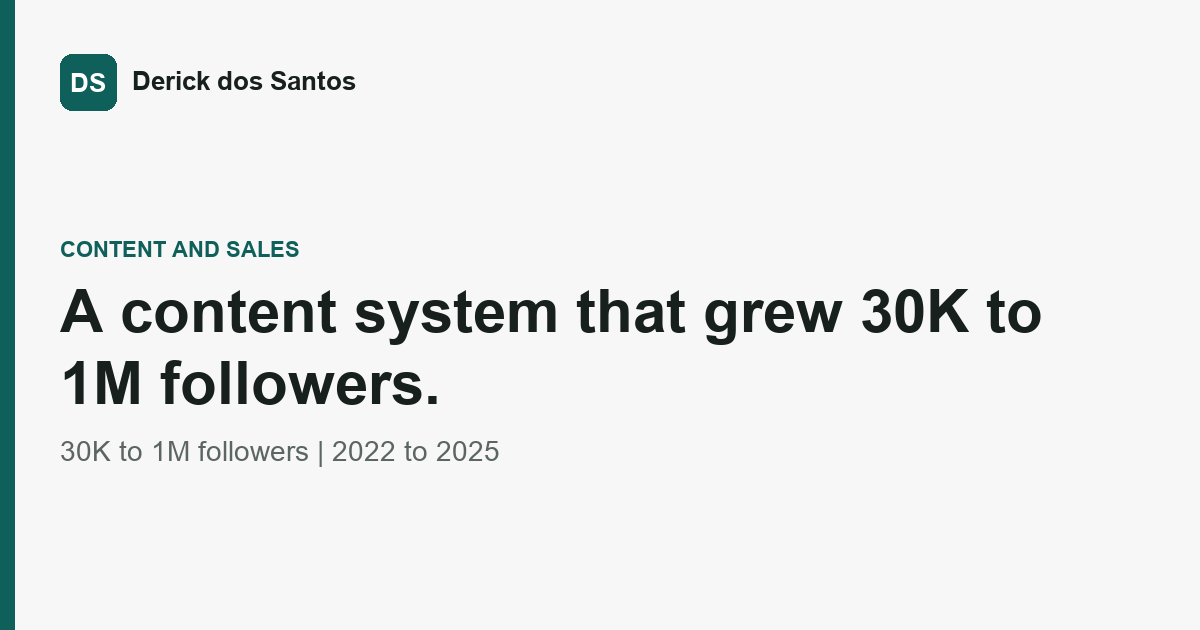
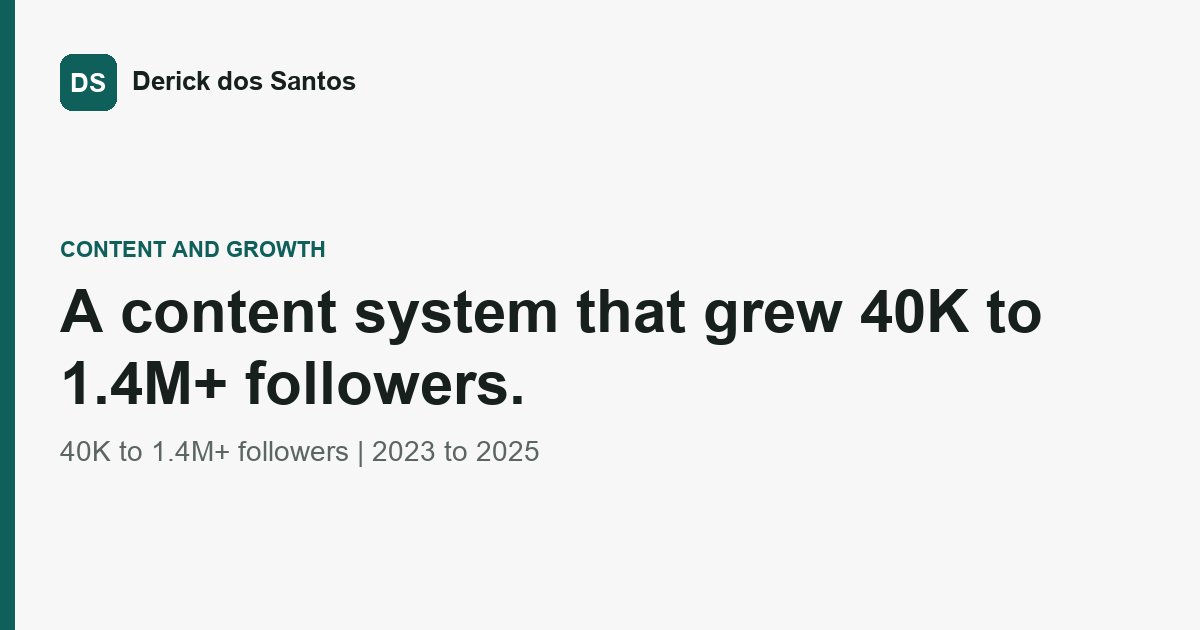
Lock corrected facts: Eduardo Oct 2023 to 2025 progression, 40K to 1.4M+ followers, Ana Silva ROAS 11 on

diff --git a/work/eduardo-araujo.html b/work/eduardo-araujo.html
@@ -1,7 +1,7 @@
 <!doctype html><html lang="en"><head><meta charset="utf-8"><meta name="viewport" content="width=device-width,initial-scale=1,viewport-fit=cover">
-<title>Eduardo Araujo | Growth and Sales Case Study</title><meta name="description" content="I managed growth, sales and content for The 1% Academy. The audience grew from 30K to 1M followers between 2022 and 2025."><link rel="canonical" href="https://md-mkt.github.io/work/eduardo-araujo.html">
-<meta property="og:type" content="website"><meta property="og:title" content="Eduardo Araujo | Growth and Sales Case Study"><meta property="og:description" content="I managed growth, sales and content for The 1% Academy. The audience grew from 30K to 1M followers between 2022 and 2025."><meta property="og:url" content="https://md-mkt.github.io/work/eduardo-araujo.html"><meta property="og:image" content="https://md-mkt.github.io/og/work-eduardo-araujo.png"><meta property="og:image:width" content="1200"><meta property="og:image:height" content="630">
-<meta name="twitter:card" content="summary_large_image"><meta name="twitter:title" content="Eduardo Araujo | Growth and Sales Case Study"><meta name="twitter:description" content="I managed growth, sales and content for The 1% Academy. The audience grew from 30K to 1M followers between 2022 and 2025."><meta name="twitter:image" content="https://md-mkt.github.io/og/work-eduardo-araujo.png">
+<title>Eduardo Araujo | Content and Growth Case Study</title><meta name="description" content="From video editor to Head of Content and Marketing Manager at The 1% Academy. The main profile grew from about 40K to 1.4M+ followers, 2023 to 2025."><link rel="canonical" href="https://md-mkt.github.io/work/eduardo-araujo.html">
+<meta property="og:type" content="website"><meta property="og:title" content="Eduardo Araujo | Content and Growth Case Study"><meta property="og:description" content="From video editor to Head of Content and Marketing Manager at The 1% Academy. The main profile grew from about 40K to 1.4M+ followers, 2023 to 2025."><meta property="og:url" content="https://md-mkt.github.io/work/eduardo-araujo.html"><meta property="og:image" content="https://md-mkt.github.io/og/work-eduardo-araujo.png"><meta property="og:image:width" content="1200"><meta property="og:image:height" content="630">
+<meta name="twitter:card" content="summary_large_image"><meta name="twitter:title" content="Eduardo Araujo | Content and Growth Case Study"><meta name="twitter:description" content="From video editor to Head of Content and Marketing Manager at The 1% Academy. The main profile grew from about 40K to 1.4M+ followers, 2023 to 2025."><meta name="twitter:image" content="https://md-mkt.github.io/og/work-eduardo-araujo.png">
 <link rel="icon" href="/favicon.ico" sizes="32x32"><link rel="icon" href="/icon.svg" type="image/svg+xml"><link rel="apple-touch-icon" href="/apple-touch-icon.png">
 <link rel="preconnect" href="https://fonts.googleapis.com"><link rel="preconnect" href="https://fonts.gstatic.com" crossorigin><link rel="stylesheet" href="https://fonts.googleapis.com/css2?family=Inter:wght@400;500;600;700&family=Space+Grotesk:wght@600;700&display=swap">
 <style>
@@ -74,13 +74,13 @@ footer{padding-block:36px 48px;border-top:1px solid var(--rule);font-size:.95rem
 <header class="top"><div class="wrap nav"><a class="brand" href="/"><span class="mono" aria-hidden="true">DS</span><span>Derick dos Santos</span></a>
 <button class="menu-btn btn" aria-expanded="false" aria-controls="nav-links">Menu</button>
 <nav class="links" id="nav-links" aria-label="Main"><a href="/work.html">Work</a><a href="/services.html">Services</a><a href="/resume.html">Resume</a><a href="/contact.html">Contact</a><a class="btn primary" href="https://wa.me/610490215396?text=Hi%20Derick%2C%20I%20found%20your%20site%20and%20would%20like%20to%20talk%20about%20a%20project." target="_blank" rel="noopener">Message me on WhatsApp</a></nav></div></header><main id="main"><div class="wrap cs-head"><a class="back" href="/work.html">All case studies</a><p class="eyebrow">Growth and sales system | Content | Funnels</p><h1>Eduardo Araujo | The 1% Academy</h1>
-<div class="meta"><span><b>Platform:</b> Instagram content system, sales page, organic sales process, quiz funnel plus VSL</span><span><b>Goal:</b> Turn a mentor&#x27;s visibility into predictable, scalable sales</span><span><b>When:</b> 2021 to 2025</span></div></div>
+<div class="meta"><span><b>Platform:</b> Instagram content system, sales page, organic sales process, quiz funnel plus VSL</span><span><b>Goal:</b> Turn a mentor&#x27;s visibility into predictable, scalable sales</span><span><b>When:</b> Oct 2023 to 2025</span></div></div>
 <div class="wrap"><div class="cs-hero"><img src="/img/hero-eduardo-araujo.webp" width="1279" height="1920" alt="Eduardo Araujo, business mentor, on stage" fetchpriority="high"></div></div>
-<section class="cs-body"><div class="wrap"><p class="eyebrow">The big idea</p><p class="lead">For four years I was the right hand of business mentor Eduardo Araujo, running growth, sales and the day-to-day operation of The 1% Academy.</p>
+<section class="cs-body"><div class="wrap"><p class="eyebrow">The big idea</p><p class="lead">For two years I was inside business mentor Eduardo Araujo&#x27;s The 1% Academy, from Senior Video Editor to Head of Content and Marketing Manager, running content, launches and marketing operations as his right hand.</p>
 <h2 style="margin-top:28px">The real problem</h2><p>Eduardo had a clear message, but his content and sales process were not working together. Visibility came and went, and it did not reliably turn into students. There was no system behind the content and no structured path from a video to a sale.</p>
-<div class="table-scroll"><table class="ba"><thead><tr><th>Area</th><th>Before</th><th>After</th></tr></thead><tbody><tr><td>Audience</td><td>30K followers</td><td>1M followers (2022 to 2025)</td></tr><tr><td>Sales</td><td>Launch by launch, no process</td><td>Organic sales process that produced R$500K+ with no paid ads</td></tr><tr><td>Funnels</td><td>None</td><td>Quiz funnel plus VSL: $50K+ in three months at 1.8 ROAS, excluding upsells</td></tr><tr><td>Business</td><td>Dependent on the founder&#x27;s energy</td><td>R$6M+ billed from 2023 to early 2026 with a growth and sales system behind it</td></tr></tbody></table></div>
-<h2>What I built</h2><p>I built the content system and the storytelling formats that grew his audience from 30K to 1M followers, including multiple viral videos with millions of views. The formats were designed around his personality, audience psychology and platform behavior, not around trends.</p><p>I built the sales page and the organic sales process that turned that attention into R$500K+ in revenue without paid traffic. Later I launched a quiz funnel plus VSL that generated $50K+ in three months at 1.8 ROAS, excluding upsells.</p><p>I managed launches, planned the content calendar, built sales funnels and tracked performance. The business billed R$6M+ from 2023 to early 2026 while I ran its growth and sales system. Eduardo is now a client of OASIS.</p><ul class="gallery wide" style="margin-top:24px"><li><figure><img src="/img/cs-eduardo-araujo-0.webp" width="1200" height="658" alt="Eduardo Araujo brand photography" loading="lazy" decoding="async"><figcaption>Eduardo Araujo brand photography</figcaption></figure></li><li><figure><img src="/img/cs-eduardo-araujo-1.webp" width="1200" height="482" alt="Content and sales results" loading="lazy" decoding="async"><figcaption>Content and sales results</figcaption></figure></li><li><figure><img src="/img/cs-eduardo-araujo-2.webp" width="1082" height="1134" alt="Eduardo Araujo content" loading="lazy" decoding="async"><figcaption>Eduardo Araujo content</figcaption></figure></li><li><figure><img src="/img/cs-eduardo-araujo-3.webp" width="1200" height="769" alt="The 1% Academy sales page" loading="lazy" decoding="async"><figcaption>The 1% Academy sales page</figcaption></figure></li></ul>
-<h2 style="margin-top:36px">The result</h2><ul class="results"><li><b>30K to 1M</b><span>followers, 2022 to 2025</span></li><li><b>R$500K+</b><span>organic revenue, no paid ads</span></li><li><b>$50K+</b><span>from a quiz funnel plus VSL in three months, 1.8 ROAS excluding upsells</span></li><li><b>R$6M+</b><span>billed by the business, 2023 to early 2026</span></li></ul>
+<div class="table-scroll"><table class="ba"><thead><tr><th>Area</th><th>Before</th><th>After</th></tr></thead><tbody><tr><td>Audience</td><td>About 40K followers</td><td>1.4M+ followers (2023 to 2025)</td></tr><tr><td>Sales</td><td>Launch by launch, no process</td><td>Organic sales process that produced R$500K+ with no paid ads</td></tr><tr><td>Funnels</td><td>None</td><td>Quiz funnel plus VSL: $50K+ in three months at 1.8 ROAS, excluding upsells</td></tr><tr><td>Business</td><td>Dependent on the founder&#x27;s energy</td><td>R$6M+ billed from 2023 to early 2026, with content and marketing operations led by me from Jul 2024</td></tr></tbody></table></div>
+<h2>What I built</h2><p>I joined in October 2023 as Senior Video Editor, took over social media in February 2024 and became Head of Content and Marketing Manager in July 2024. I played a key role in growing the main profile from about 40K to 1.4M+ followers, with multiple viral videos reaching millions of views and performance creatives with cost per click as low as R$0.08.</p><p>I built the sales page and the organic sales process that turned that attention into R$500K+ in revenue without paid traffic. I also launched a quiz funnel plus VSL that generated $50K+ in three months at 1.8 ROAS, excluding upsells.</p><p>From July 2024 I managed launches, the content calendar, the content team and editors, sales funnels and reporting. The business billed R$6M+ from 2023 to early 2026. Eduardo is now a client of OASIS.</p><ul class="gallery wide" style="margin-top:24px"><li><figure><img src="/img/cs-eduardo-araujo-0.webp" width="1200" height="658" alt="Eduardo Araujo brand photography" loading="lazy" decoding="async"><figcaption>Eduardo Araujo brand photography</figcaption></figure></li><li><figure><img src="/img/cs-eduardo-araujo-1.webp" width="1200" height="482" alt="Content and sales results" loading="lazy" decoding="async"><figcaption>Content and sales results</figcaption></figure></li><li><figure><img src="/img/cs-eduardo-araujo-2.webp" width="1082" height="1134" alt="Eduardo Araujo content" loading="lazy" decoding="async"><figcaption>Eduardo Araujo content</figcaption></figure></li><li><figure><img src="/img/cs-eduardo-araujo-3.webp" width="1200" height="769" alt="The 1% Academy sales page" loading="lazy" decoding="async"><figcaption>The 1% Academy sales page</figcaption></figure></li></ul>
+<h2 style="margin-top:36px">The result</h2><ul class="results"><li><b>40K to 1.4M+</b><span>followers, 2023 to 2025</span></li><li><b>R$500K+</b><span>organic revenue, no paid ads</span></li><li><b>$50K+</b><span>from a quiz funnel plus VSL in three months, 1.8 ROAS excluding upsells</span></li><li><b>R$0.08</b><span>cost per click on the best performing creatives</span></li><li><b>R$6M+</b><span>billed by the business, 2023 to early 2026</span></li></ul>
 <h2 style="margin-top:36px">What this proves for you</h2><p>If you are a creator or expert whose audience is bigger than your revenue, I have already built the whole path once: content that earns attention, a sales process that converts it, and funnels that scale it.</p>
 <h2 style="margin-top:28px">Proof links</h2><ul><li><a href="https://oasis-brand-essence.lovable.app/case-study/eduardo-araujo" target="_blank" rel="noopener">Case study on the OASIS site</a></li></ul>
 <h2 style="margin-top:36px">Next steps</h2><div class="next"><a class="card" href="/services.html#growth-system" style="text-decoration:none;color:inherit;padding:18px"><span class="tag">Related service</span><h3 style="margin:6px 0 0">Growth system</h3></a><a class="card" href="/work/smash-padel-usa.html" style="text-decoration:none;color:inherit;padding:18px"><span class="tag">Case study</span><h3 style="margin:6px 0 0">Smash Padel USA</h3></a><a class="card" href="/work/luciane-mazuim.html" style="text-decoration:none;color:inherit;padding:18px"><span class="tag">Case study</span><h3 style="margin:6px 0 0">Luciane Mazuim</h3></a></div>

diff --git a/index.html b/index.html
@@ -77,7 +77,7 @@ footer{padding-block:36px 48px;border-top:1px solid var(--rule);font-size:.95rem
 <p class="lead">I build and run acquisition systems for creators, small businesses and startups: Meta and Google Ads, landing pages, tracking and automated follow-up, measured end to end. Co-founder of OASIS Creative Co, based in Brazil, working US hours.</p>
 <div class="cta-row"><a class="btn primary" href="https://wa.me/610490215396?text=Hi%20Derick%2C%20I%20found%20your%20site%20and%20would%20like%20to%20talk%20about%20a%20project." target="_blank" rel="noopener">Message me on WhatsApp</a><a class="btn" href="/work.html">See the work</a></div></div>
 <div class="photo"><img src="/img/derick.webp" width="900" height="1125" alt="Derick dos Santos" fetchpriority="high"></div></div></div>
-<section><div class="wrap"><p class="eyebrow">Selected results</p><ul class="stats"><li><a href="/work/smash-padel-usa.html"><b>3.68x</b><span>ROAS on a validated Google Search test</span></a></li><li><a href="/work/eduardo-araujo.html"><b>R$6M+</b><span>billed by a business while I ran its growth and sales</span></a></li><li><a href="/work/ana-silva.html"><b>ROAS 11</b><span>on Google Ads for a solo service business</span></a></li><li><a href="/work/eduardo-araujo.html"><b>30K to 1M</b><span>followers built with a content system</span></a></li></ul></div></section>
+<section><div class="wrap"><p class="eyebrow">Selected results</p><ul class="stats"><li><a href="/work/smash-padel-usa.html"><b>3.68x</b><span>ROAS on a validated Google Search test</span></a></li><li><a href="/work/eduardo-araujo.html"><b>R$6M+</b><span>billed by a business where I led content and marketing operations</span></a></li><li><a href="/work/ana-silva.html"><b>ROAS 11</b><span>on Google Ads for a solo service business</span></a></li><li><a href="/work/eduardo-araujo.html"><b>40K to 1.4M+</b><span>followers, a content system I helped build</span></a></li></ul></div></section>
 <section class="alt" id="help"><div class="wrap"><p class="eyebrow">What I can help with</p><h2>I can manage your marketing or help with the part that needs work.</h2>
 <div class="svcs">
 <div class="svc"><h3>Growth system</h3><p class="note">Paid acquisition, landing page, tracking and lifecycle follow-up built as one measurable journey.</p><ul><li>Meta and Google Ads</li><li>Landing pages and CRO</li><li>UTM tracking and attribution</li><li>Email and CRM automation</li></ul><div class="actions"><a class="btn" href="/services.html#growth-system">How it works</a><a class="btn" href="/work/smash-padel-usa.html">Proof: Smash Padel</a></div></div>
@@ -87,7 +87,7 @@ footer{padding-block:36px 48px;border-top:1px solid var(--rule);font-size:.95rem
 <section id="work"><div class="wrap"><h2>Case studies</h2><ul class="cards"><li class="card"><a class="thumb" href="/work/smash-padel-usa.html" aria-label="Smash Padel USA"><img src="/img/cover-smash-padel-usa.webp" width="900" height="720" alt="Players on court at Smash Padel USA in Boulder, Colorado" loading="lazy" decoding="async"></a>
 <div class="body"><span class="tag">Growth system | Paid media | CRO | Lifecycle</span><h3><a href="/work/smash-padel-usa.html" style="text-decoration:none;color:inherit">Smash Padel USA</a></h3><p><b>3.68x</b> direct ROAS on a validated Google Search test</p>
 <div class="actions"><a class="btn" href="/work/smash-padel-usa.html">Read the case study</a></div></div></li><li class="card"><a class="thumb" href="/work/eduardo-araujo.html" aria-label="Eduardo Araujo | The 1% Academy"><img src="/img/cover-eduardo-araujo.webp" width="900" height="1351" alt="Eduardo Araujo, business mentor, on stage" loading="lazy" decoding="async"></a>
-<div class="body"><span class="tag">Growth and sales system | Content | Funnels</span><h3><a href="/work/eduardo-araujo.html" style="text-decoration:none;color:inherit">Eduardo Araujo | The 1% Academy</a></h3><p><b>30K to 1M</b> followers, 2022 to 2025</p>
+<div class="body"><span class="tag">Growth and sales system | Content | Funnels</span><h3><a href="/work/eduardo-araujo.html" style="text-decoration:none;color:inherit">Eduardo Araujo | The 1% Academy</a></h3><p><b>40K to 1.4M+</b> followers, 2023 to 2025</p>
 <div class="actions"><a class="btn" href="/work/eduardo-araujo.html">Read the case study</a></div></div></li><li class="card"><a class="thumb" href="/work/ana-silva.html" aria-label="Personal Stylist Ana Silva"><img src="/img/cover-ana-silva.webp" width="900" height="1125" alt="Personal stylist Ana Silva" loading="lazy" decoding="async"></a>
 <div class="body"><span class="tag">Google Ads | Brand manual | Content strategy</span><h3><a href="/work/ana-silva.html" style="text-decoration:none;color:inherit">Personal Stylist Ana Silva</a></h3><p><b>ROAS 11</b> on Google Ads</p>
 <div class="actions"><a class="btn" href="/work/ana-silva.html">Read the case study</a></div></div></li><li class="card"><a class="thumb" href="/work/pick-n-eat.html" aria-label="Pick n Eat Acai and Cafe"><img src="/img/cover-pick-n-eat.webp" width="868" height="1102" alt="Pick n Eat acai bowls" loading="lazy" decoding="async"></a>
@@ -102,8 +102,8 @@ footer{padding-block:36px 48px;border-top:1px solid var(--rule);font-size:.95rem
 <li><h3>Convert</h3><p>Landing pages, quiz funnels, VSLs and offers turn traffic into leads and bookings.</p></li>
 <li><h3>Nurture</h3><p>Email, SMS and CRM flows convert more of the leads you already paid for.</p></li>
 <li><h3>Optimize</h3><p>Tracking, cohorts and tests find the next bottleneck, and the loop starts again.</p></li></ol></div></section>
-<section id="about"><div class="wrap two"><div><p class="eyebrow">About</p><h2>Four years running one business's growth taught me what a system has to survive.</h2>
-<p>From 2021 to 2025 I was the right hand of business mentor Eduardo Araujo, running growth, sales and daily operations for The 1% Academy. In 2023 I co-founded OASIS Creative Co with my partner, where I lead growth strategy, paid acquisition, funnels, CRO and lifecycle automation and she leads creative direction and brand.</p>
+<section id="about"><div class="wrap two"><div><p class="eyebrow">About</p><h2>Two years inside one creator's business taught me what a system has to survive.</h2>
+<p>From October 2023 to 2025 I worked inside business mentor Eduardo Araujo's The 1% Academy, from Senior Video Editor to Head of Content and Marketing Manager, running content, launches and marketing operations as his right hand. In 2023 I co-founded OASIS Creative Co with my partner, where I lead growth strategy, paid acquisition, funnels, CRO and lifecycle automation and she leads creative direction and brand.</p>
 <p>I use AI every day in the work: Claude Code and agents for research, creative variations, ad builds through the Meta Ads API and reporting, with a human review on everything that ships. I studied engineering and business administration. English fluent, Portuguese native.</p>
 <p>What I want next: remote contract work with creators, small businesses and startups where I own the result, ideally with some participation in it.</p></div>
 <div><ul class="chips"><li>Meta Ads</li><li>Google Ads</li><li>Landing pages</li><li>Quiz funnels</li><li>VSL</li><li>CRO</li><li>UTM tracking</li><li>Email automation</li><li>CRM</li><li>Claude Code</li><li>Premiere Pro</li><li>CapCut</li></ul><p class="note">Remote from Brazil (BRT), available in US business hours. Contract, freelance or part-time. Not seeking relocation.</p></div></div></section>

diff --git a/work/ana-silva.html b/work/ana-silva.html
@@ -1,7 +1,7 @@
 <!doctype html><html lang="en"><head><meta charset="utf-8"><meta name="viewport" content="width=device-width,initial-scale=1,viewport-fit=cover">
-<title>Ana Silva | Google Ads Case Study</title><meta name="description" content="I managed a 13-day Google Ads campaign for personal stylist Ana Silva. $37 in ad spend generated over $1,200 in bookings, with ROAS 11."><link rel="canonical" href="https://md-mkt.github.io/work/ana-silva.html">
-<meta property="og:type" content="website"><meta property="og:title" content="Ana Silva | Google Ads Case Study"><meta property="og:description" content="I managed a 13-day Google Ads campaign for personal stylist Ana Silva. $37 in ad spend generated over $1,200 in bookings, with ROAS 11."><meta property="og:url" content="https://md-mkt.github.io/work/ana-silva.html"><meta property="og:image" content="https://md-mkt.github.io/og/work-ana-silva.png"><meta property="og:image:width" content="1200"><meta property="og:image:height" content="630">
-<meta name="twitter:card" content="summary_large_image"><meta name="twitter:title" content="Ana Silva | Google Ads Case Study"><meta name="twitter:description" content="I managed a 13-day Google Ads campaign for personal stylist Ana Silva. $37 in ad spend generated over $1,200 in bookings, with ROAS 11."><meta name="twitter:image" content="https://md-mkt.github.io/og/work-ana-silva.png">
+<title>Ana Silva | Google Ads Case Study</title><meta name="description" content="I managed a 13-day Google Ads campaign for personal stylist Ana Silva on a $37 test budget. It returned ROAS 11."><link rel="canonical" href="https://md-mkt.github.io/work/ana-silva.html">
+<meta property="og:type" content="website"><meta property="og:title" content="Ana Silva | Google Ads Case Study"><meta property="og:description" content="I managed a 13-day Google Ads campaign for personal stylist Ana Silva on a $37 test budget. It returned ROAS 11."><meta property="og:url" content="https://md-mkt.github.io/work/ana-silva.html"><meta property="og:image" content="https://md-mkt.github.io/og/work-ana-silva.png"><meta property="og:image:width" content="1200"><meta property="og:image:height" content="630">
+<meta name="twitter:card" content="summary_large_image"><meta name="twitter:title" content="Ana Silva | Google Ads Case Study"><meta name="twitter:description" content="I managed a 13-day Google Ads campaign for personal stylist Ana Silva on a $37 test budget. It returned ROAS 11."><meta name="twitter:image" content="https://md-mkt.github.io/og/work-ana-silva.png">
 <link rel="icon" href="/favicon.ico" sizes="32x32"><link rel="icon" href="/icon.svg" type="image/svg+xml"><link rel="apple-touch-icon" href="/apple-touch-icon.png">
 <link rel="preconnect" href="https://fonts.googleapis.com"><link rel="preconnect" href="https://fonts.gstatic.com" crossorigin><link rel="stylesheet" href="https://fonts.googleapis.com/css2?family=Inter:wght@400;500;600;700&family=Space+Grotesk:wght@600;700&display=swap">
 <style>
@@ -78,9 +78,9 @@ footer{padding-block:36px 48px;border-top:1px solid var(--rule);font-size:.95rem
 <div class="wrap"><div class="cs-hero"><img src="/img/hero-ana-silva.webp" width="1080" height="1350" alt="Personal stylist Ana Silva" fetchpriority="high"></div></div>
 <section class="cs-body"><div class="wrap"><p class="eyebrow">The big idea</p><p class="lead">Ana offered personal styling services and relied on word of mouth to find clients. We gave her a brand manual, a content strategy and a Google Ads structure sized for a solo business.</p>
 <h2 style="margin-top:28px">The real problem</h2><p>No defined positioning, no sales strategy, an inconsistent Instagram profile and no paid acquisition. Clients came by word of mouth only.</p>
-<div class="table-scroll"><table class="ba"><thead><tr><th>Area</th><th>Before</th><th>After</th></tr></thead><tbody><tr><td>Positioning</td><td>Undefined</td><td>Brand manual and a premium, consistent profile</td></tr><tr><td>Acquisition</td><td>Word of mouth</td><td>Targeted Google Ads with a small, measured budget</td></tr><tr><td>Bookings</td><td>Irregular</td><td>Consistent flow of qualified personal color analysis bookings</td></tr></tbody></table></div>
+<div class="table-scroll"><table class="ba"><thead><tr><th>Area</th><th>Before</th><th>After</th></tr></thead><tbody><tr><td>Positioning</td><td>Undefined</td><td>Brand manual and a premium, consistent profile</td></tr><tr><td>Acquisition</td><td>Word of mouth</td><td>Targeted Google Ads with a $37 test budget</td></tr><tr><td>Bookings</td><td>Irregular</td><td>Consistent flow of qualified personal color analysis bookings</td></tr></tbody></table></div>
 <h2>What I built</h2><p>I set up and managed a 13-day Google Ads campaign aimed at people already searching for personal styling and color analysis. I focused the budget on people searching for the service Ana offers.</p><p>With my partner at OASIS we built the brand manual and the content strategy that made her profile match the premium service she sells, so the clicks landed on something worth booking.</p><ul class="gallery wide" style="margin-top:24px"><li><figure><img src="/img/cs-ana-silva-0.webp" width="1200" height="854" alt="Ana Silva brand and Instagram profile" loading="lazy" decoding="async"><figcaption>Ana Silva brand and Instagram profile</figcaption></figure></li><li><figure><img src="/img/cs-ana-silva-1.webp" width="1054" height="1128" alt="Ana Silva before the rebrand" loading="lazy" decoding="async"><figcaption>Ana Silva before the rebrand</figcaption></figure></li><li><figure><img src="/img/cs-ana-silva-2.webp" width="1200" height="772" alt="Ana Silva website" loading="lazy" decoding="async"><figcaption>Ana Silva website</figcaption></figure></li></ul>
-<h2 style="margin-top:36px">The result</h2><ul class="results"><li><b>ROAS 11</b><span>on Google Ads</span></li><li><b>$37 to $1,200+</b><span>ad spend to bookings in one 13-day campaign</span></li></ul>
+<h2 style="margin-top:36px">The result</h2><ul class="results"><li><b>ROAS 11</b><span>on Google Ads</span></li><li><b>$37</b><span>test budget, one 13-day campaign</span></li></ul>
 <h2 style="margin-top:36px">What this proves for you</h2><p>This is what a tight paid acquisition test looks like for a small service business: a clear offer, the right intent, a small budget and a real number at the end.</p>
 <h2 style="margin-top:28px">Proof links</h2><ul><li><a href="https://oasis-brand-essence.lovable.app/case-study/ana-silva" target="_blank" rel="noopener">Case study on the OASIS site</a></li></ul>
 <h2 style="margin-top:36px">Next steps</h2><div class="next"><a class="card" href="/services.html#paid-social" style="text-decoration:none;color:inherit;padding:18px"><span class="tag">Related service</span><h3 style="margin:6px 0 0">Paid ads and social</h3></a><a class="card" href="/work/pick-n-eat.html" style="text-decoration:none;color:inherit;padding:18px"><span class="tag">Case study</span><h3 style="margin:6px 0 0">Pick n Eat Acai and Cafe</h3></a><a class="card" href="/work/smash-padel-usa.html" style="text-decoration:none;color:inherit;padding:18px"><span class="tag">Case study</span><h3 style="margin:6px 0 0">Smash Padel USA</h3></a></div>

diff --git a/resume.html b/resume.html
@@ -79,7 +79,7 @@ footer{padding-block:36px 48px;border-top:1px solid var(--rule);font-size:.95rem
 
 <p class="headline">Growth Marketing Lead | Paid Acquisition, Funnels and Marketing Automation</p>
 <h2>Summary</h2>
-<p>Growth marketer who builds and manages acquisition systems, connecting Meta and Google Ads, landing pages, tracking and automated follow-up. Ran growth and sales for a business that billed R$6M+ from 2023 to early 2026. Built Smash Padel USA&#x27;s acquisition system, including a validated Google Search test that returned 3.68x direct ROAS. Looking for remote contract work with creators, small businesses and startups.</p>
+<p>Growth marketer who builds and manages acquisition systems, connecting Meta and Google Ads, landing pages, tracking and automated follow-up. Led content and marketing operations for a business that billed R$6M+ from 2023 to early 2026. Built Smash Padel USA&#x27;s acquisition system, including a validated Google Search test that returned 3.68x direct ROAS. Looking for remote contract work with creators, small businesses and startups.</p>
 <h2>Skills</h2><div class="skills">
 <p><b>Paid Media:</b> Meta Ads, Google Ads, paid media strategy, audience strategy, campaign optimization, Meta Ads API</p>
 <p><b>Funnels and Conversion:</b> landing pages, sales funnels, quiz funnels, VSL strategy, offer strategy, CRO, tracking and attribution (UTM)</p>
@@ -90,16 +90,18 @@ footer{padding-block:36px 48px;border-top:1px solid var(--rule);font-size:.95rem
 <li>Built and managed <a href="https://oasis-brand-essence.lovable.app/case-study/smash-padel-usa">Smash Padel USA</a>'s acquisition funnel, connecting Meta Ads, Google Search, a landing page, UTM tracking and automated follow-up for a $10 Intro offer. A validated Google Search test delivered 3.68x direct ROAS at $2.72 per Intro participant.</li>
 <li>Used checkout and cohort data to find conversion problems, test new creative angles and improve the mobile landing page. Converted 14 of 43 tracked first-time players (32.6%) into paid Starter Pack customers.</li>
 <li>Built and automated a membership email sequence with about 72% weighted open rate across 489 sends and $470 in UTM-attributed revenue (Apr 30 to Jul 16, 2026).</li>
-<li>Managed a 13-day Google Ads campaign for personal stylist <a href="https://oasis-brand-essence.lovable.app/case-study/ana-silva">Ana Silva</a>, generating over $1,200 in bookings from $37 in ad spend (ROAS 11). Also developed a new brand manual and content strategy.</li>
+<li>Managed a 13-day Google Ads campaign for personal stylist <a href="https://oasis-brand-essence.lovable.app/case-study/ana-silva">Ana Silva</a> on $37 of spend: ROAS 11. Also developed a new brand manual and content strategy.</li>
 <li>Run the work with AI in the loop every day: Claude Code and agents for research, creative variations, ad builds through the Meta Ads API and reporting.</li>
 </ul>
-<div class="role"><span><span class="t">Co-producer and Growth Strategist</span> | <span class="o"><a href="https://oasis-brand-essence.lovable.app/case-study/eduardo-araujo">Eduardo Araujo | The 1% Academy</a></span> | Remote</span><span class="d">2021 to 2025</span></div><ul>
-<li>Managed growth, sales and daily operations for <a href="https://oasis-brand-essence.lovable.app/case-study/eduardo-araujo">Eduardo Araujo</a>'s The 1% Academy, including launches, funnels, content and reporting. The business billed R$6M+ from 2023 to early 2026.</li>
+<div class="role"><span><span class="t">Head of Content and Marketing Manager</span> | <span class="o"><a href="https://oasis-brand-essence.lovable.app/case-study/eduardo-araujo">The 1% Academy | Eduardo Araujo</a></span> | Remote</span><span class="d">Oct 2023 to 2025</span></div><ul>
+<li>Led content and marketing operations for the founder's business from Jul 2024 as his right hand: launches, funnels, content direction and reporting. The business billed R$6M+ from 2023 to early 2026.</li>
 <li>Built a sales page and organic sales process that generated R$500K+ in revenue without paid advertising.</li>
 <li>Launched a quiz funnel and VSL that generated $50K+ in three months at 1.8 ROAS, excluding upsells.</li>
+<li>Joined as Senior Video Editor (Oct 2023), moved to Social Media Marketing Manager (Feb 2024), then Head of Content and Marketing Manager (Jul 2024 to 2025).</li>
 </ul>
 <h2>Education</h2><ul>
-<li>Studied Engineering and Business Administration (Brazil)</li>
+<li>Universidade Sao Judas Tadeu, Business Administration studies, 2019 to 2023</li>
+<li>IERGS/UNIASSELVI, Engineering, two semesters, 2018 to 2019</li>
 <li>Languages: Portuguese (native), English (fluent)</li>
 </ul></div></div></div>
 <section class="band"><div class="wrap"><h2>Need a resume focused on a different role?</h2><p class="lead">I can also send a resume focused on paid ads, social media, video or automation.</p>

diff --git a/work.html b/work.html
@@ -78,7 +78,7 @@ footer{padding-block:36px 48px;border-top:1px solid var(--rule);font-size:.95rem
 <section id="growth"><div class="wrap"><h2>Growth systems</h2><p class="lead">I connect ads, landing pages, tracking and follow-up so I can see what brings in customers.</p><ul class="cards"><li class="card"><a class="thumb" href="/work/smash-padel-usa.html" aria-label="Smash Padel USA"><img src="/img/cover-smash-padel-usa.webp" width="900" height="720" alt="Players on court at Smash Padel USA in Boulder, Colorado" loading="lazy" decoding="async"></a>
 <div class="body"><span class="tag">Growth system | Paid media | CRO | Lifecycle</span><h3><a href="/work/smash-padel-usa.html" style="text-decoration:none;color:inherit">Smash Padel USA</a></h3><p><b>3.68x</b> direct ROAS on a validated Google Search test</p>
 <div class="actions"><a class="btn" href="/work/smash-padel-usa.html">Read the case study</a></div></div></li><li class="card"><a class="thumb" href="/work/eduardo-araujo.html" aria-label="Eduardo Araujo | The 1% Academy"><img src="/img/cover-eduardo-araujo.webp" width="900" height="1351" alt="Eduardo Araujo, business mentor, on stage" loading="lazy" decoding="async"></a>
-<div class="body"><span class="tag">Growth and sales system | Content | Funnels</span><h3><a href="/work/eduardo-araujo.html" style="text-decoration:none;color:inherit">Eduardo Araujo | The 1% Academy</a></h3><p><b>30K to 1M</b> followers, 2022 to 2025</p>
+<div class="body"><span class="tag">Growth and sales system | Content | Funnels</span><h3><a href="/work/eduardo-araujo.html" style="text-decoration:none;color:inherit">Eduardo Araujo | The 1% Academy</a></h3><p><b>40K to 1.4M+</b> followers, 2023 to 2025</p>
 <div class="actions"><a class="btn" href="/work/eduardo-araujo.html">Read the case study</a></div></div></li></ul></div></section>
 <section id="ads"><div class="wrap"><h2>Paid ads and social</h2><p class="lead">Campaigns and content for local businesses, experts and brands, judged by bookings and sales.</p><ul class="cards"><li class="card"><a class="thumb" href="/work/ana-silva.html" aria-label="Personal Stylist Ana Silva"><img src="/img/cover-ana-silva.webp" width="900" height="1125" alt="Personal stylist Ana Silva" loading="lazy" decoding="async"></a>
 <div class="body"><span class="tag">Google Ads | Brand manual | Content strategy</span><h3><a href="/work/ana-silva.html" style="text-decoration:none;color:inherit">Personal Stylist Ana Silva</a></h3><p><b>ROAS 11</b> on Google Ads</p>
